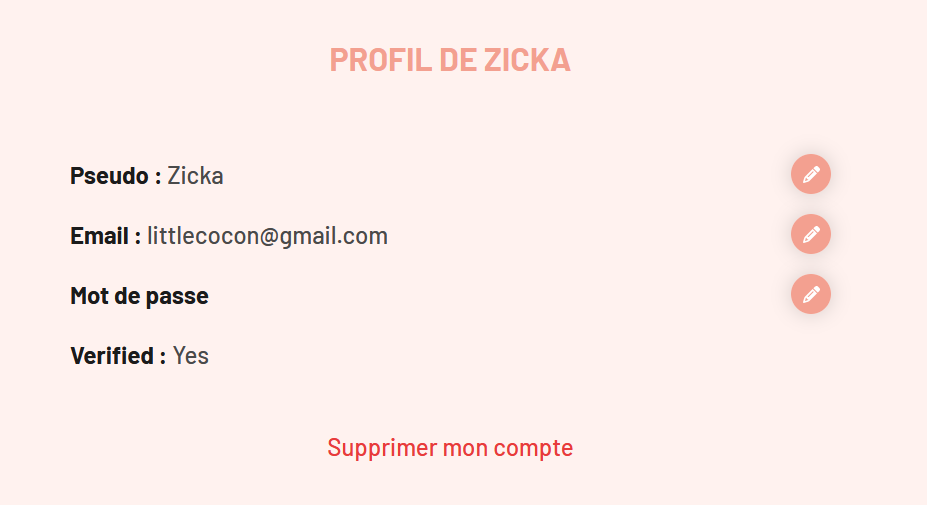
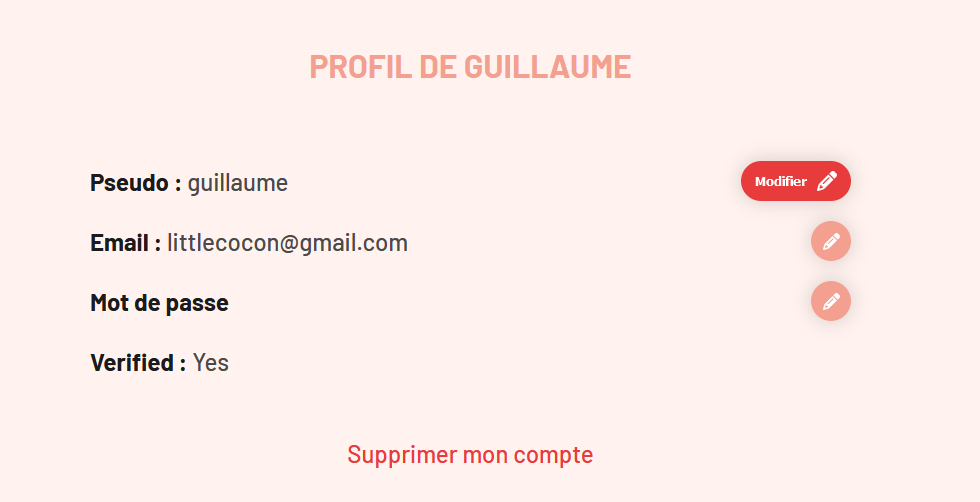
last commit

diff --git a/index.html b/index.html
@@ -75,7 +75,7 @@
             <!-- MCD / MLD -->
             <section>
                 <h3>Modèle conceptuel de donnée MCD</h3>
-                    <img class="img-mvc" src="img/MVC.png" alt="">
+                    <img class="img-mvc" src="img/mcd.png" alt="">
                 <aside class="notes">Le MCD est un outil qui permet de représenter de manière schématique et structurée les informations que l'on souhaite gérer dans une base de données. <br>
                     Il s'agit en quelque sorte d'un "plan" qui identifie les différentes entités (comme des tables), leurs relations et leurs attributs.
                     </aside>
@@ -83,7 +83,7 @@
 
             <section>
                 <h3>Modèle logique de donnée MLD</h3>
-                    <img class="img-mvc" src="img/MVC.png" alt="">
+                    <img class="img-mvc" src="img/mld.png" alt="">
                 <aside class="notes">Le MLD est une étape qui suit la réalisation du MCD. Il traduit le MCD en une structure plus technique, se rapprochant de ce qui sera 
                     effectivement créé dans la base de données. <br>
                     Le MLD détaille les tables, leurs clés, et les relations entre elles, en préparation de la mise en place concrète de la base de données.</aside>
@@ -94,7 +94,7 @@
                 <h3>Fonctionnalités Clés</h3>
                 <p>Un système d'inscription et de connexion</p>
                 <div>
-                    <p class="fragment"><img src="img/subscription.png" alt=""> <img src="img/connexion.png" alt=""></p>
+                    <p class=""><img src="img/subscription.png" alt=""> <img src="img/connexion.png" alt=""></p>
                    
                 </div>
             </section>
@@ -102,19 +102,30 @@
             <section>
                 <h3>Fonctionnalités Clés</h3>
                 <p>La possibilité de supprimer ou modifier son profil</p>
-                <ul>
-                    <li class="fragment"><img src="img/subscription.png" alt="">modification/supression dans le profil</li>
-                </ul>
+                <div>
+                   <img class="center-img" src="img/modification-profil.png" alt="">
+                    <!-- <li class="fragment">modification/supression dans le profil</li> -->
+                </div>
             </section>
 
             <section>
                 <h3>Fonctionnalités Clés</h3>
-                <p>Un calendrier de réservation</p>
-                        <ul>
-                            <li class="fragment"><img src="img/calendrier-jour.png" alt="">Section Mois/Jours</li>
-                            <li class="fragment"><img src="img/calendrier-horaires.png" alt="">Section Horaires</li>
-                            <li class="fragment"><img src="img/calendrier-reservation-boutton.png" alt="">Section Réservation</li>
-                        </ul>
+                <p>Calendrier partie jours/mois</p>
+                <div class="step1"><img src="img/calendrier-jour.png" alt=""></div>
+                
+            </section>
+
+            <section>
+                <h3>Fonctionnalités Clés</h3>
+                <p>Calendrier partie horaires</p>
+                <div class="step2"><img src="img/calendrier-horaires.png" alt=""></div>
+                        
+            </section>
+
+            <section>
+                <h3>Fonctionnalités Clés</h3>
+                <p>Calendrier partie methode de payement</p>
+                <div class="step3"><img src="img/calendrier-reservation-boutton.png" alt=""></div>                  
             </section>
 
             <section>

diff --git a/css/style.css b/css/style.css
@@ -17,6 +17,19 @@ img {
     height: auto;
 }
 
-.slides {
-  
+.center-img {
+    width: 70%;
+    height: auto;
+    margin: 0 auto;
 }
+
+
+.step3 {
+    width: 95%;
+    height: auto;
+    margin: 0 auto;
+}
+
+
+
+
